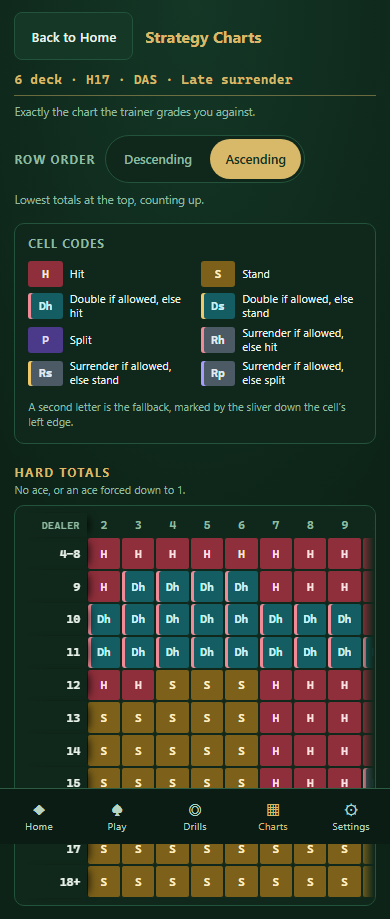
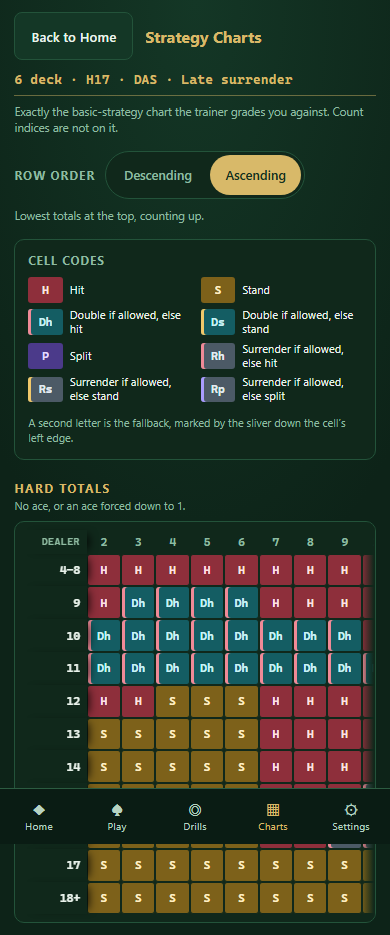
round 6C follow-up: the clip fallback the commit message already described
`overflow-x: clip` on .charts-screen gets a `hidden` declaration under it.
`clip` is Safari 16+; on an older phone the line is dropped, which would
leave that element with no overflow rule at all and hand back the sideways
page scroll the original `hidden` was there to stop. It loses the sticky
note instead, which is the right thing to lose. The rule went into the
working tree with 6C's code but not into its commit.

The two chart screenshots under docs/sources are the suite's own output,
regenerated for the reworded provenance line.

Changed region(s): [[0.0308, 0.0305, 0.9538, 1.0], [0.0615, 0.8531, 0.1538, 0.914], [0.1538, 0.9445, 0.1846, 0.975]]

diff --git a/src/ui/screens/charts.css b/src/ui/screens/charts.css
@@ -69,7 +69,14 @@
    * scroller that actually moves) that silently cost .charts-note its whole
    * reason for existing. `clip` clips the same pixels and creates no
    * scrollport, so sticky resolves against the real scroller.
+   *
+   * Declared twice on purpose: `clip` is Safari 16+, and an engine that does
+   * not know it drops the line. Without the `hidden` underneath, such a
+   * phone would be left with no overflow rule at all and the sideways scroll
+   * this is here to prevent -- it loses the sticky note instead, which is
+   * the right thing to lose.
    */
+  overflow-x: hidden;
   overflow-x: clip;
 }
 
